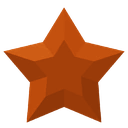
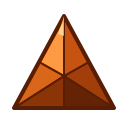
feat(gems): change Special Gem from star to faceted triangle shape

diff --git a/scripts/generate_gem_emojis.js b/scripts/generate_gem_emojis.js
@@ -488,7 +488,7 @@ const GEM_SPECS = [
   },
   {
     type: 'special',
-    shapeName: 'Special Gem',
+    shapeName: 'Special Gem (Triangle)',
     prefix: 'Generic Special Gem.png',
     ids: { common: '79', rare: '81', epic: '82', generation: '91', legendary: '84', mythic: '83', ancient: '92', divine: '93', secret: '94' }
   }
@@ -544,7 +544,7 @@ async function main() {
 
   // 3. Generate Complete Showcase Matrix Image
   console.log('\n📊 Generating Complete Showcase Matrix Image (gem_showcase_all.png)...');
-  const typeHeaders = ['Hunting Gem 💎', 'Empowering Gem 🔮', 'Lucky Gem 💖', 'Special Gem ⭐'];
+  const typeHeaders = ['Hunting Gem 💎', 'Empowering Gem 🔮', 'Lucky Gem 💖', 'Special Gem 🔺'];
 
   const CELL_W = 140;
   const CELL_H = 140;

diff --git a/data/gems.js b/data/gems.js
@@ -50,7 +50,7 @@ const GEM_TYPES = {
     id: "special",
     name: "Special Gem",
     nameVi: "Ngọc Đặc Biệt",
-    shape: "Star",
+    shape: "Triangle",
     emoji: "⭐",
     slot: "special",
     durabilityType: "animals",
